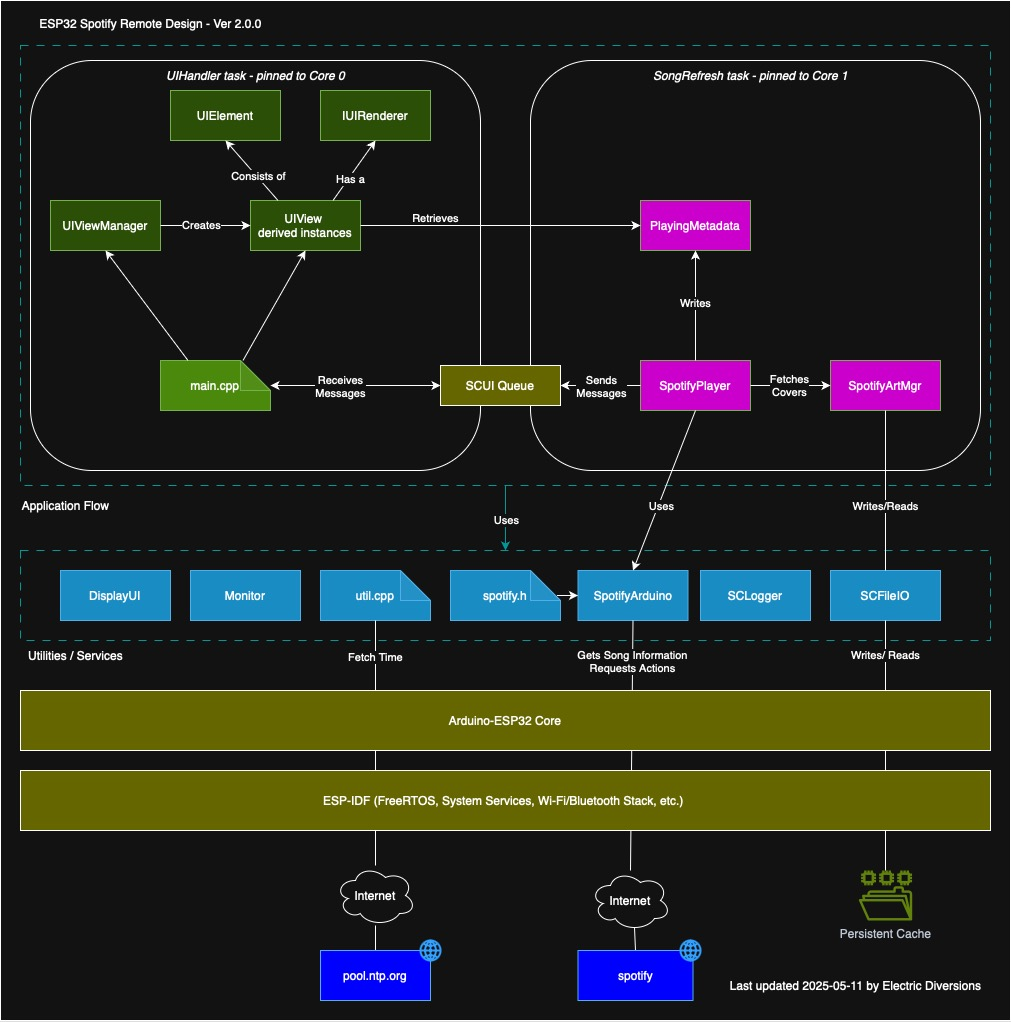
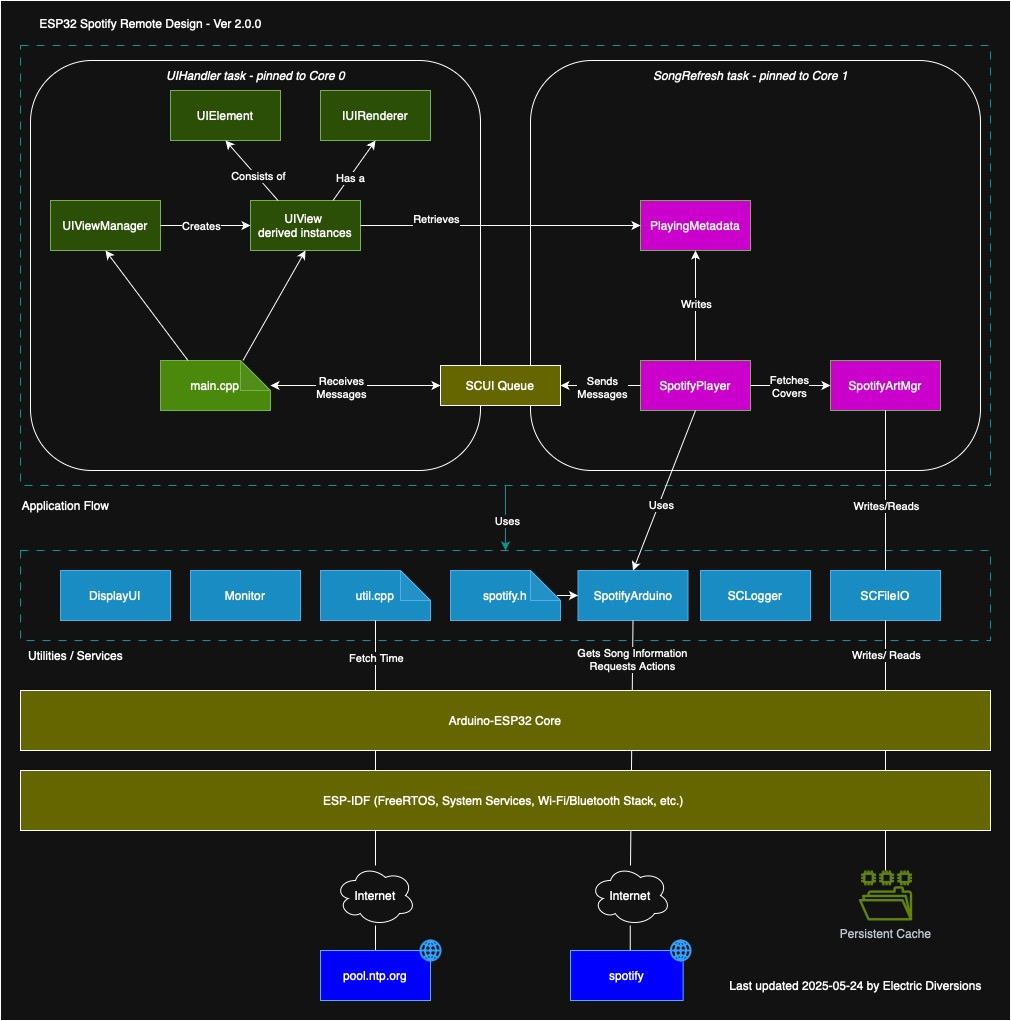
Pin platform to specific version. Minor updates to README and design diagram.

diff --git a/README.md b/README.md
@@ -39,6 +39,7 @@ In order to run this project on your device, you will need to setup an applicati
 
 - **Album Art Display**
   - Downloads and displays album artwork via Spotify Web API
+  - Syncs background color with album art
   - Caches artwork locally for performance
 
 - **Multiple UI Modes**
@@ -53,7 +54,7 @@ In order to run this project on your device, you will need to setup an applicati
 - **Designed for ESP32 + TFT Touch**
   - Built using PlatformIO and Arduino
   - Touch event handling for UI buttons and screen navigation
-  - Takes advantage of ESP32 dual-core architecture: UI logic runs on one core, while background tasks (e.g., album art refresh) run on the other
+  - Takes advantage of ESP32 dual-core architecture: UI logic runs on one core and background song and album art refreshing runs on the other
 
 - **Extensible Design**
   - Modular architecture allows easy addition of new Views (UI screens)
@@ -72,6 +73,7 @@ In order to run this project on your device, you will need to setup an applicati
 - Tap the **album art** on the Home view to switch to the **Cover Art view**.
 - Tap the **clock** to switch to the **Clock view**.
 - Tap the **network status box** in the lower-right corner to open the **Diagnostics view**.
+- Tap the top-left corner for **Prev**, the top-center for **Pause/Play**, and the top-right for **Next** when using views other than Home. 
 
 > For detailed display logic and diagnostics layout, see `DiagnosticsView.cpp`.
 
